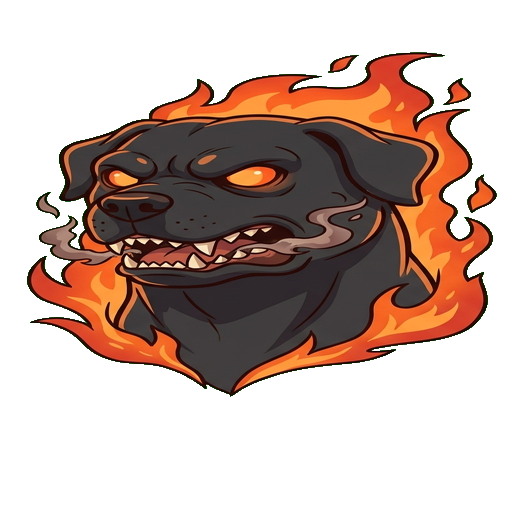
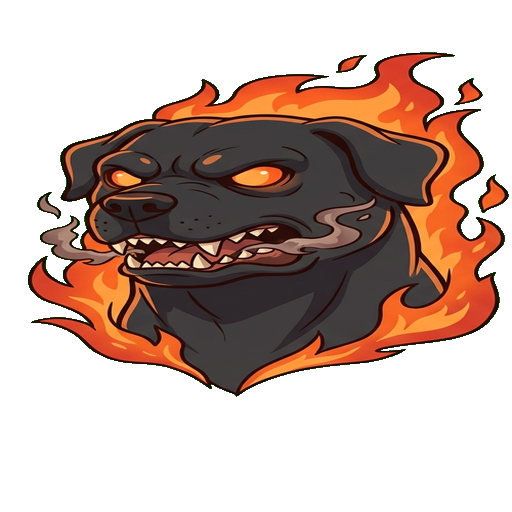
Clean center seam border lines and curtain fringe from monster art slices

Changed region(s): [[0.0312, 0.0938, 1.0, 0.7812], [0.3438, 0.5625, 0.4375, 0.6562], [0.6562, 0.5312, 0.6875, 0.5625]]

diff --git a/art/slice_side_by_side.py b/art/slice_side_by_side.py
@@ -17,6 +17,29 @@ from slice_portraits import remove_greenscreen
 SRC_DIR = os.path.join(os.path.dirname(__file__), "source")
 os.makedirs(SRC_DIR, exist_ok=True)
 
+def strip_border_lines(img: Image.Image) -> Image.Image:
+    """Clear thin border stroke artifacts (0-4px from edges) that touch the canvas border."""
+    img = img.copy()
+    pix = img.load()
+    w, h = img.size
+
+    # Clear vertical hairline borders on left (x=0..3) and right (x=w-4..w-1)
+    for x in range(4):
+        # count opaque pixels in column x
+        opaque = sum(1 for y in range(h) if pix[x, y][3] > 0)
+        # if column is mostly a border line (or thin strip unconnected to a wide body)
+        if opaque > h * 0.4 and sum(1 for y in range(h) if pix[x+5, y][3] > 0) < opaque * 0.5:
+            for y in range(h):
+                pix[x, y] = (0, 0, 0, 0)
+
+    for x in range(w - 4, w):
+        opaque = sum(1 for y in range(h) if pix[x, y][3] > 0)
+        if opaque > h * 0.4 and sum(1 for y in range(h) if pix[x-5, y][3] > 0) < opaque * 0.5:
+            for y in range(h):
+                pix[x, y] = (0, 0, 0, 0)
+
+    return img
+
 def slice_side_by_side(sheet_path: str, item_id: str):
     if not os.path.exists(sheet_path):
         print(f"Error: file not found: {sheet_path}")
@@ -26,12 +49,13 @@ def slice_side_by_side(sheet_path: str, item_id: str):
     width, height = im.size
     w_half = width // 2
 
-    # Crop left (portrait) and right (token)
-    p_crop = im.crop((0, 0, w_half, height)).resize((512, 512), Image.LANCZOS)
-    t_crop = im.crop((w_half, 0, width, height)).resize((512, 512), Image.LANCZOS)
+    # Crop left (portrait) with 12px margin from center seam to avoid dividing line
+    # Crop right (token) with 12px margin from center seam
+    p_crop = im.crop((0, 0, max(0, w_half - 12), height)).resize((512, 512), Image.LANCZOS)
+    t_crop = im.crop((min(width, w_half + 12), 0, width, height)).resize((512, 512), Image.LANCZOS)
 
-    p_rgba = remove_greenscreen(p_crop)
-    t_rgba = remove_greenscreen(t_crop)
+    p_rgba = strip_border_lines(remove_greenscreen(p_crop))
+    t_rgba = strip_border_lines(remove_greenscreen(t_crop))
 
     p_out = os.path.join(SRC_DIR, f"portrait-{item_id}.png")
     t_out = os.path.join(SRC_DIR, f"token-{item_id}.png")
